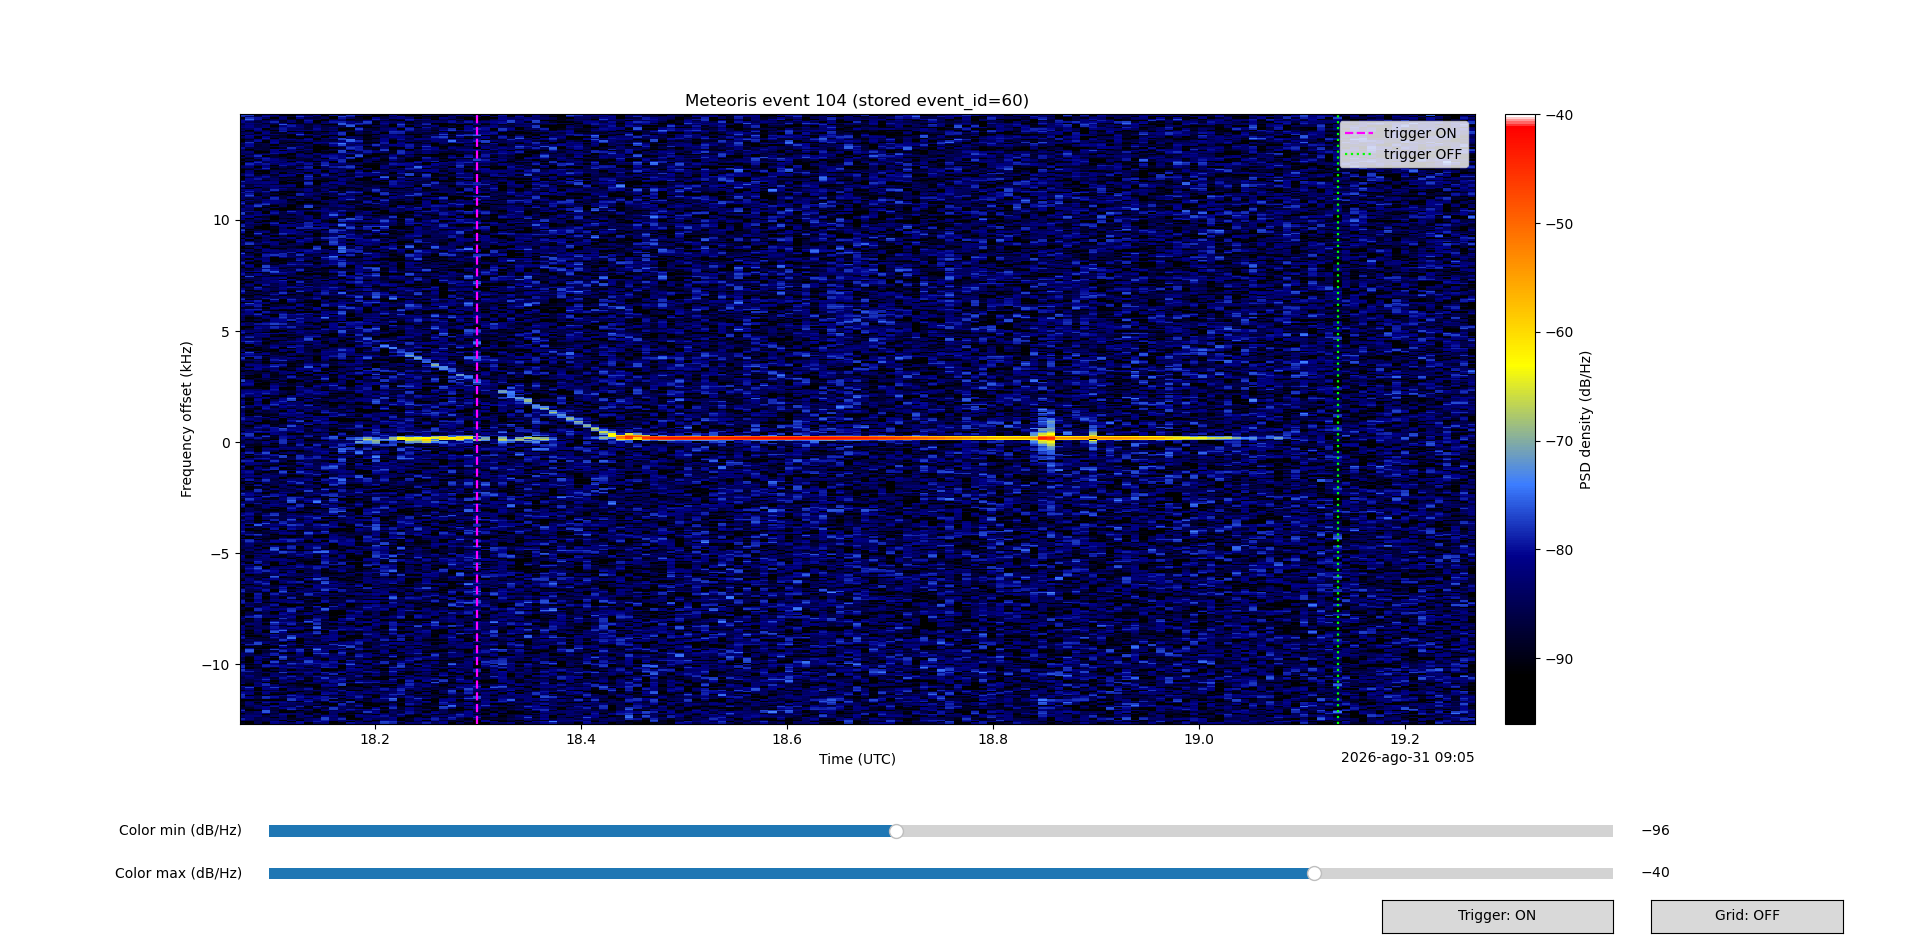
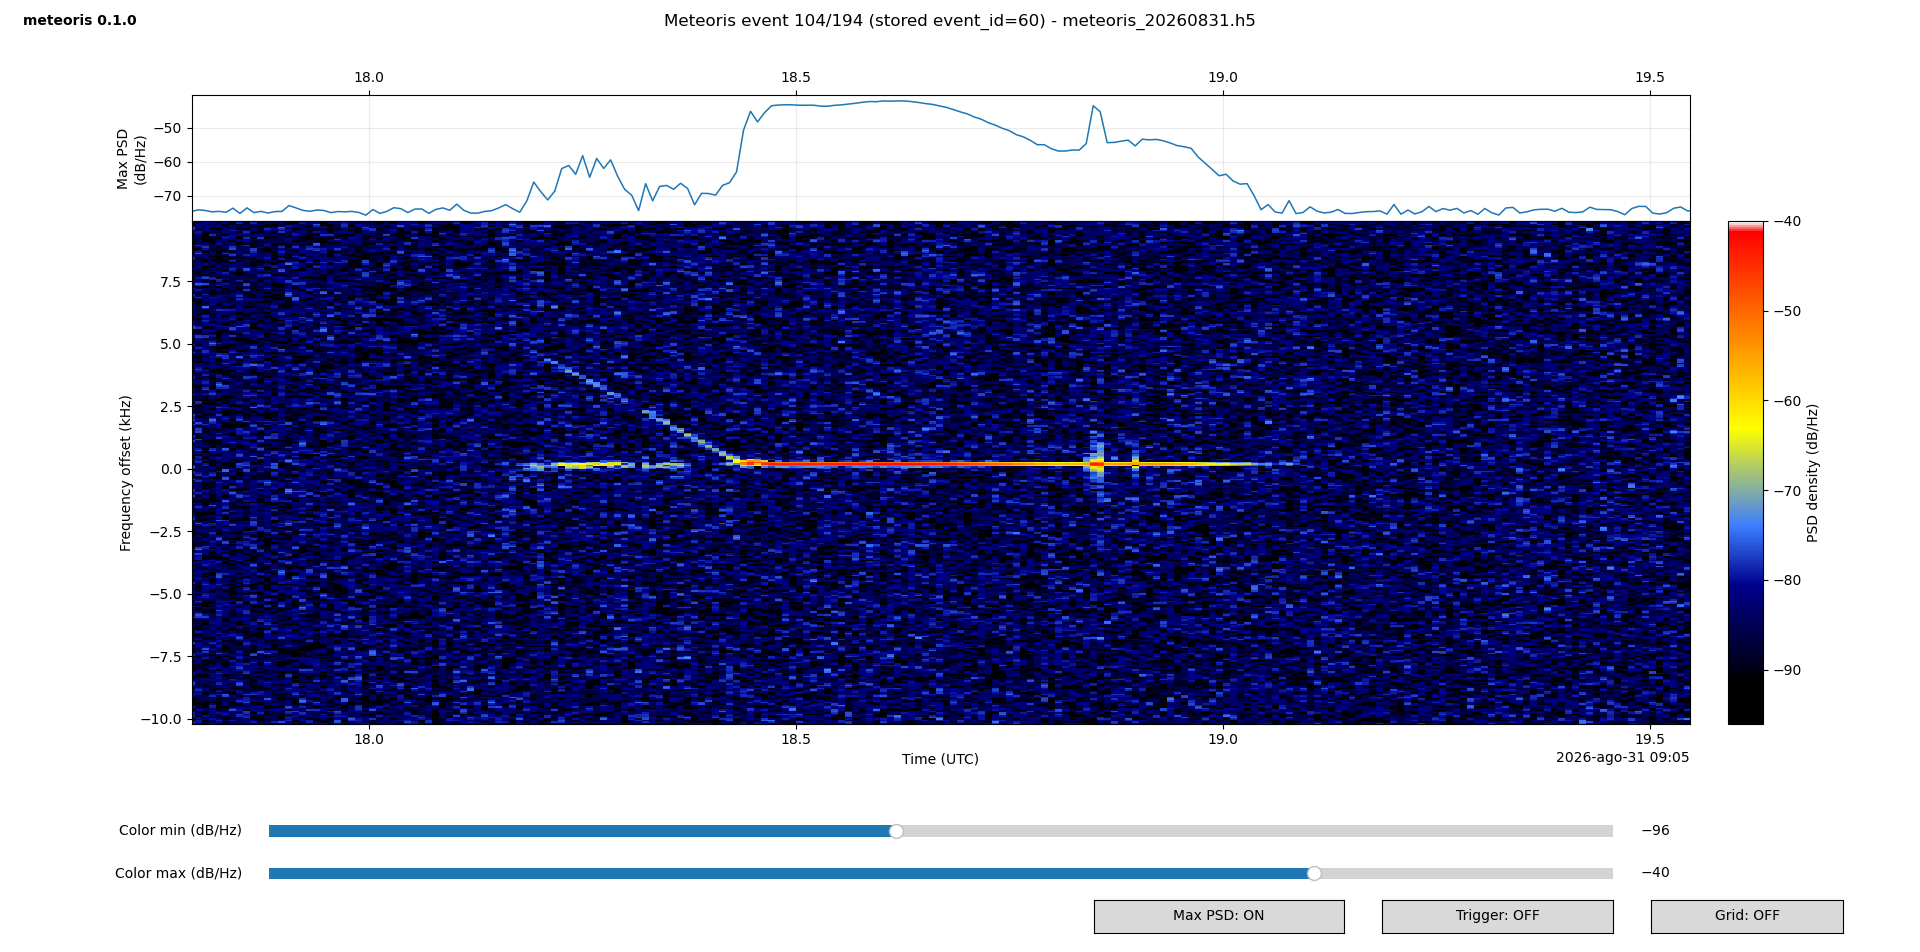
- Add max PSD XY plot above spectrogram - Promote to 0.3.0 version

diff --git a/tools/meteoris_plot.py b/tools/meteoris_plot.py
@@ -23,7 +23,7 @@ The program:
     - skips by -20/-10/+10/+20 events with Z/X/C/V;
     - terminate the interactive browser with Q or by closing the window;
   - provides interactive PSD color-scale minimum/maximum sliders;
-  - provides show/hide controls for the X/Y grid and trigger markers;
+  - provides show/hide controls for the max-PSD trace, X/Y grid, and trigger markers;
   - marks trigger ON/OFF positions;
   - can save selected event plots as PNG files.
 
@@ -40,7 +40,7 @@ Examples:
 
 from __future__ import annotations
 
-__version__ = "0.2.0"
+__version__ = "0.3.0"
 __author__ = "Fabrizio Pollastri <mxgbot@gmail.com>"
 
 
@@ -395,6 +395,7 @@ def auto_color_limits(db: np.ndarray) -> tuple[float, float]:
 def plot_event(
     h5: h5py.File,
     ev: EventSegment,
+    total_events: int,
     cmap: ListedColormap,
     db_min: float | None,
     db_max: float | None,
@@ -428,8 +429,22 @@ def plot_event(
     t_dt = [ns_to_utc(int(x)) for x in ts_ns]
     t_num = mdates.date2num(t_dt)
 
-    fig, ax = plt.subplots(figsize=(plot_cfg.figure_width, plot_cfg.figure_height))
-    fig.subplots_adjust(bottom=0.24)
+    # Two vertically stacked plots share the UTC time axis. The compact upper
+    # plot shows, for each waterfall time column, the maximum PSD density over
+    # all frequency bins.
+    fig, (ax_max_power, ax) = plt.subplots(
+        2, 1,
+        figsize=(plot_cfg.figure_width, plot_cfg.figure_height),
+        sharex=True,
+        gridspec_kw={
+            "height_ratios": (1.0, 4.0),
+            "hspace": 0.0,
+            "left": 0.10,
+            "right": 0.88,
+            "top": 0.90,
+            "bottom": 0.24,
+        },
+    )
     mesh = ax.pcolormesh(
         t_num,
         freq_hz / 1000.0,
@@ -440,10 +455,21 @@ def plot_event(
         vmax=vmax,
         rasterized=True,
     )
+    max_psd_db = np.max(db, axis=1)
+    ax_max_power.plot(t_num, max_psd_db, linewidth=1.1)
+    ax_max_power.set_ylabel("Max PSD\n(dB/Hz)")
+    ax_max_power.grid(True, which="major", axis="both", alpha=0.25)
+
     ax.xaxis_date()
     locator = mdates.AutoDateLocator(minticks=3, maxticks=9)
+    formatter = mdates.ConciseDateFormatter(locator, tz=dt.timezone.utc)
     ax.xaxis.set_major_locator(locator)
-    ax.xaxis.set_major_formatter(mdates.ConciseDateFormatter(locator, tz=dt.timezone.utc))
+    ax.xaxis.set_major_formatter(formatter)
+    # Repeat the shared time ticks and labels on the top edge of the stacked
+    # max-PSD panel. The lower waterfall keeps the normal bottom labels.
+    ax_max_power.tick_params(
+        axis="x", which="both", top=True, labeltop=True, bottom=False, labelbottom=False
+    )
     ax.set_xlabel("Time (UTC)")
     ax.set_ylabel("Frequency offset (kHz)")
 
@@ -455,14 +481,51 @@ def plot_event(
     ax.set_axisbelow(False)
     ax.grid(False, which="major", axis="both")
 
-    title = f"Meteoris event {ev.ordinal} (stored event_id={ev.stored_event_id})"
-    ax.set_title(title)
-    cb = fig.colorbar(mesh, ax=ax, pad=0.02)
+    title = (
+        f"Meteoris event {ev.ordinal}/{total_events} (stored event_id={ev.stored_event_id}) - "
+        f"{Path(h5.filename).name}"
+    )
+    # Keep the event title in the header row, centered at the same vertical
+    # position as the Meteoris/version label. This leaves the upper X tick
+    # labels their own space immediately above the stacked axes.
+    fig.text(0.5, 0.985, title, ha="center", va="top", fontsize=12)
+
+    software_version = __version__
+    try:
+        if "metadata" in h5 and "software_version" in h5["metadata"].attrs:
+            software_version = str(decode_value(h5["metadata"].attrs["software_version"]))
+    except Exception:
+        pass
+    fig.text(0.012, 0.985, f"meteoris {software_version}",
+             ha="left", va="top", fontsize=10, fontweight="bold")
+
+    # Keep explicit positions for both toggle states. When the Max PSD panel
+    # is hidden the waterfall expands to occupy the complete stack height;
+    # restoring it puts both axes back into their original stacked geometry.
+    max_power_pos = ax_max_power.get_position().frozen()
+    waterfall_pos = ax.get_position().frozen()
+    full_stack_pos = [
+        waterfall_pos.x0,
+        waterfall_pos.y0,
+        waterfall_pos.width,
+        max_power_pos.y1 - waterfall_pos.y0,
+    ]
+
+    cax = fig.add_axes([0.90, waterfall_pos.y0, 0.018, waterfall_pos.height])
+    cbar_on_pos = cax.get_position().frozen()
+    cbar_off_pos = [
+        cbar_on_pos.x0,
+        waterfall_pos.y0,
+        cbar_on_pos.width,
+        full_stack_pos[3],
+    ]
+    cb = fig.colorbar(mesh, cax=cax)
     cb.set_label("PSD density (dB/Hz)")
 
     # Mark every trigger ON/OFF transition. Retriggers that occur during the
     # post-trigger tail are intentionally merged into the same Meteoris event,
     # so an event may contain several active/post-active intervals.
+    max_power_state = {"visible": True}
     trigger_lines = []
     trigger_state = {"visible": True}
     trigger_legend = None
@@ -515,12 +578,14 @@ def plot_event(
     slider_hi = max(plot_cfg.slider_max_db, vmax + 1.0)
     ax_min = fig.add_axes([0.14, 0.115, 0.70, 0.025])
     ax_max = fig.add_axes([0.14, 0.070, 0.70, 0.025])
+    ax_max_toggle = fig.add_axes([0.57, 0.020, 0.13, 0.035])
     ax_trigger = fig.add_axes([0.72, 0.020, 0.12, 0.035])
     ax_grid = fig.add_axes([0.86, 0.020, 0.10, 0.035])
     s_min = Slider(ax_min, "Color min (dB/Hz)", slider_lo, slider_hi,
                    valinit=vmin, valstep=plot_cfg.slider_step_db)
     s_max = Slider(ax_max, "Color max (dB/Hz)", slider_lo, slider_hi,
                    valinit=vmax, valstep=plot_cfg.slider_step_db)
+    b_max_power = Button(ax_max_toggle, "Max PSD: ON")
     b_trigger = Button(ax_trigger, "Trigger: ON")
     b_grid = Button(ax_grid, "Grid: OFF")
 
@@ -531,6 +596,22 @@ def plot_event(
         if hi <= lo:
             return
         mesh.set_clim(lo, hi)
+        fig.canvas.draw_idle()
+
+    def toggle_max_power(_event=None):
+        max_power_state["visible"] = not max_power_state["visible"]
+        visible = max_power_state["visible"]
+        ax_max_power.set_visible(visible)
+        if visible:
+            ax_max_power.set_position(max_power_pos)
+            ax.set_position(waterfall_pos)
+            cax.set_position(cbar_on_pos)
+        else:
+            ax.set_position(full_stack_pos)
+            cax.set_position(cbar_off_pos)
+        b_max_power.label.set_text(
+            "Max PSD: ON" if visible else "Max PSD: OFF"
+        )
         fig.canvas.draw_idle()
 
     def toggle_grid(_event=None):
@@ -560,10 +641,11 @@ def plot_event(
 
     s_min.on_changed(update_scale)
     s_max.on_changed(update_scale)
+    b_max_power.on_clicked(toggle_max_power)
     b_trigger.on_clicked(toggle_triggers)
     b_grid.on_clicked(toggle_grid)
     # Keep widget references alive for the lifetime of the figure.
-    fig._meteoris_widgets = (s_min, s_max, b_trigger, b_grid)
+    fig._meteoris_widgets = (s_min, s_max, b_max_power, b_trigger, b_grid)
 
     # Keyboard navigation:
     #   SPACE/ENTER                -> next event
@@ -829,7 +911,7 @@ def main(argv: Iterable[str] | None = None) -> int:
                 # Headless mode still renders/saves every selected event.
                 for n in selected:
                     fig, _navigation = plot_event(
-                        h5, events[n - 1], cmap,
+                        h5, events[n - 1], len(events), cmap,
                         effective_db_min, effective_db_max,
                         args.save_dir, plot_cfg
                     )
@@ -847,7 +929,7 @@ def main(argv: Iterable[str] | None = None) -> int:
                 while 0 <= pos < len(selected):
                     n = selected[pos]
                     fig, navigation = plot_event(
-                        h5, events[n - 1], cmap,
+                        h5, events[n - 1], len(events), cmap,
                         effective_db_min, effective_db_max,
                         args.save_dir, plot_cfg
                     )

diff --git a/src/meteoris.cpp b/src/meteoris.cpp
@@ -79,7 +79,7 @@
 
 namespace
 {
-constexpr const char *METEORIS_VERSION = "0.2.0";
+constexpr const char *METEORIS_VERSION = "0.3.0";
 constexpr const char *METEORIS_AUTHOR = "Fabrizio Pollastri <mxgbot@gmail.com>";
 constexpr const char *METEORIS_HDF5_FORMAT = "meteoris v0";
 constexpr const char *METEORIS_HDF5_AUTHOR = "Fabrizio Pollastri";

diff --git a/README.md b/README.md
@@ -15,7 +15,7 @@ parameters.
 
 Meteoris has currently been tested on Linux with the [HackRF One
 SDR](https://hackrf.readthedocs.io/en/latest/hackrf_one.html).
-Meteoris is currently at version 0.2.0 and should therefore be considered alpha
+Meteoris is currently at version 0.3.0 and should therefore be considered alpha
 software.
 
 ### Author's Note
@@ -36,8 +36,9 @@ Without AI, this project probably would not exist.
     Echoes-style automatic threshold detection.
   * Efficient HDF5 storage format for meteor-event data.
   * Event-list display with details for each event.
-  * Event waterfall display with time/frequency axes and signal
-    level represented by color.
+  * Interactive event display with a time/frequency waterfall, an optional
+    per-time-column maximum-PSD trace, shared time axes, and signal level
+    represented by color.
   * SDR simulator that generates synthetic meteor-scatter radio signals
     for testing and calibration.
 
@@ -298,8 +299,19 @@ through recorded events:
 - `q`: quit
 - close the window: quit
 
-The viewer also provides interactive PSD color-limit sliders and buttons for
-showing/hiding the grid and trigger markers.
+The viewer also provides interactive PSD color-limit sliders and controls for
+the display:
+
+- **Max PSD** toggles a plot stacked above the waterfall. Its Y axis shows the
+  maximum PSD density (dB/Hz) across all displayed frequency bins for each time
+  column. The upper plot shares the waterfall time axis and repeats the time
+  ticks at the top. When the Max PSD plot is hidden, the waterfall expands to
+  use the released vertical space; enabling it restores the stacked layout.
+- **Trigger** shows or hides detector trigger markers.
+- **Grid** shows or hides the plot grid.
+- The display header identifies the Meteoris version and shows the current
+  event as `<event>/<total events in file>`, together with the recorded-data
+  filename and the existing event information.
 
 Meteoris uses HDF5 Single-Writer/Multiple-Reader (SWMR) mode by default so the
 active daily recording can be inspected without stopping acquisition or making
@@ -309,13 +321,17 @@ a copy. While browsing an active SWMR file:
 
 Example of a typical meteor-scatter event captured by Meteoris. It is an echo
 of the GRAVES transmitter (143.050 MHz, Dijon, France) from the overdense
-ionized trail of a meteor.
+ionized trail of a meteor. Spectrogram zoomed.
 
-![](doc/meteoris_event_20260830115909.png)
+![](doc/meteoris_event_20260830115909_zoom.png)
 
 Example of meteor scatter with a complex structure. Spectrogram zoomed.
 
 ![](doc/meteoris_event_20260831090518_zoom.png)
+
+Example of a strong meteor scatter. Spectrogram zoomed.
+
+![](doc/meteoris_event_20260903142123_zoom.png)
 
 
 # Simulator

diff --git a/doc/DETAILED_FEATURES.md b/doc/DETAILED_FEATURES.md
@@ -1,4 +1,4 @@
-Here is a concise list of the main **Meteoris 0.2.0** features as developed so far:
+Here is a concise list of the main **Meteoris 0.3.0** features as developed so far:
 
 * **Real-time SDR acquisition**
 
@@ -151,7 +151,7 @@ Here is a concise list of the main **Meteoris 0.2.0** features as developed so f
   * Local-user or system-wide installation.
   * Consistent repository organization for application, simulator, tools and configuration.
   * `meteoris --version` and `meteoris_plot --version`.
-  * Current software version: **0.2.0**.
+  * Current software version: **0.3.0**.
 
 
 

diff --git a/doc/DSP_PIPELINE.md b/doc/DSP_PIPELINE.md
@@ -1,7 +1,7 @@
 # Meteoris DSP pipeline
 
 This document describes the digital signal-processing pipeline implemented in
-`meteoris.cpp` for **Meteoris 0.2.0**. It follows the current C++ implementation
+`meteoris.cpp` for **Meteoris 0.3.0**. It follows the current C++ implementation
 from native SoapySDR `CS8` acquisition through frequency translation, FIR
 decimation, PSD calculation, and delivery of PSD frames to the detector.
 

diff --git a/doc/RECORDING_FORMAT.md b/doc/RECORDING_FORMAT.md
@@ -1,7 +1,7 @@
 # Meteoris HDF5 recording format
 
 This document describes the HDF5 recording format currently written by
-**Meteoris 0.2.0**.
+**Meteoris 0.3.0**.
 
 The format identifier stored in each new file is:
 
@@ -248,7 +248,7 @@ This attribute describes the Meteoris format/application author.
 For the current software:
 
 ```text
-0.2.0
+0.3.0
 ```
 
 This records the Meteoris version that created the new HDF5 file.

diff --git a/doc/CONFIG_FILE_REFERENCE.md b/doc/CONFIG_FILE_REFERENCE.md
@@ -1,7 +1,7 @@
 # Meteoris configuration reference
 
 This document describes the `meteoris.toml` configuration file used by
-Meteoris 0.2.0.
+Meteoris 0.3.0.
 
 Meteoris reads configuration values from TOML sections and then applies any
 command-line overrides. The precedence is:
